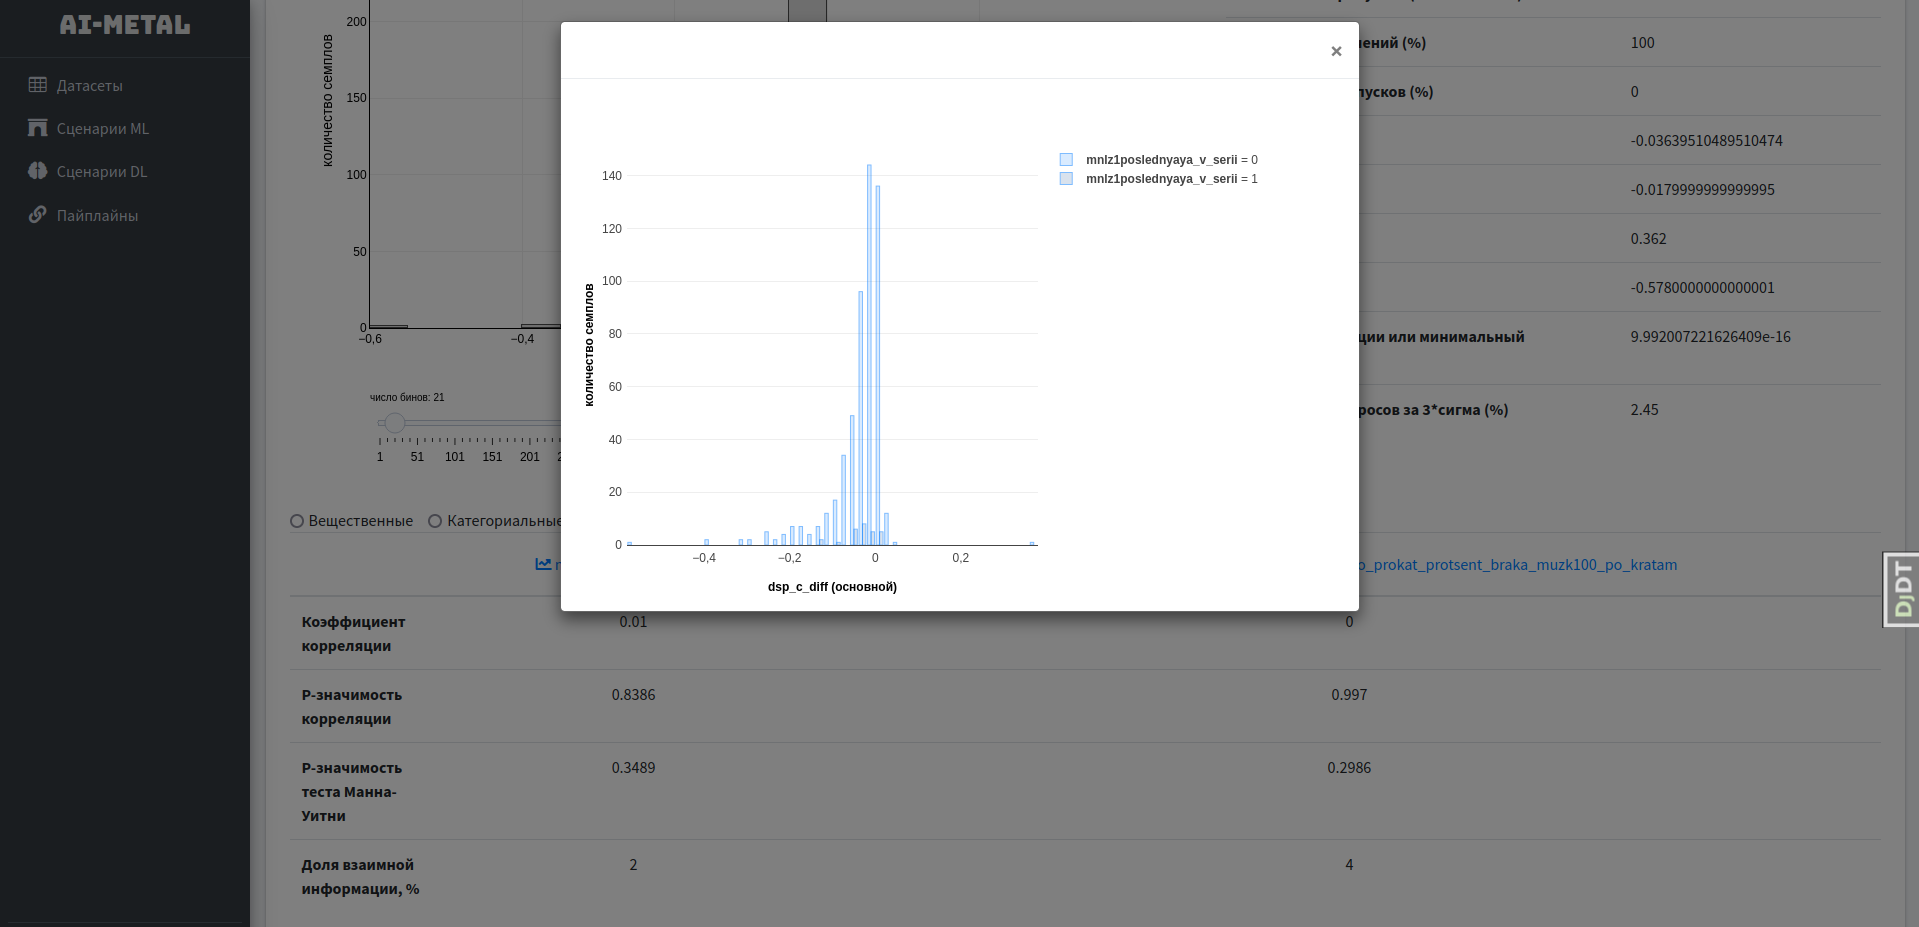
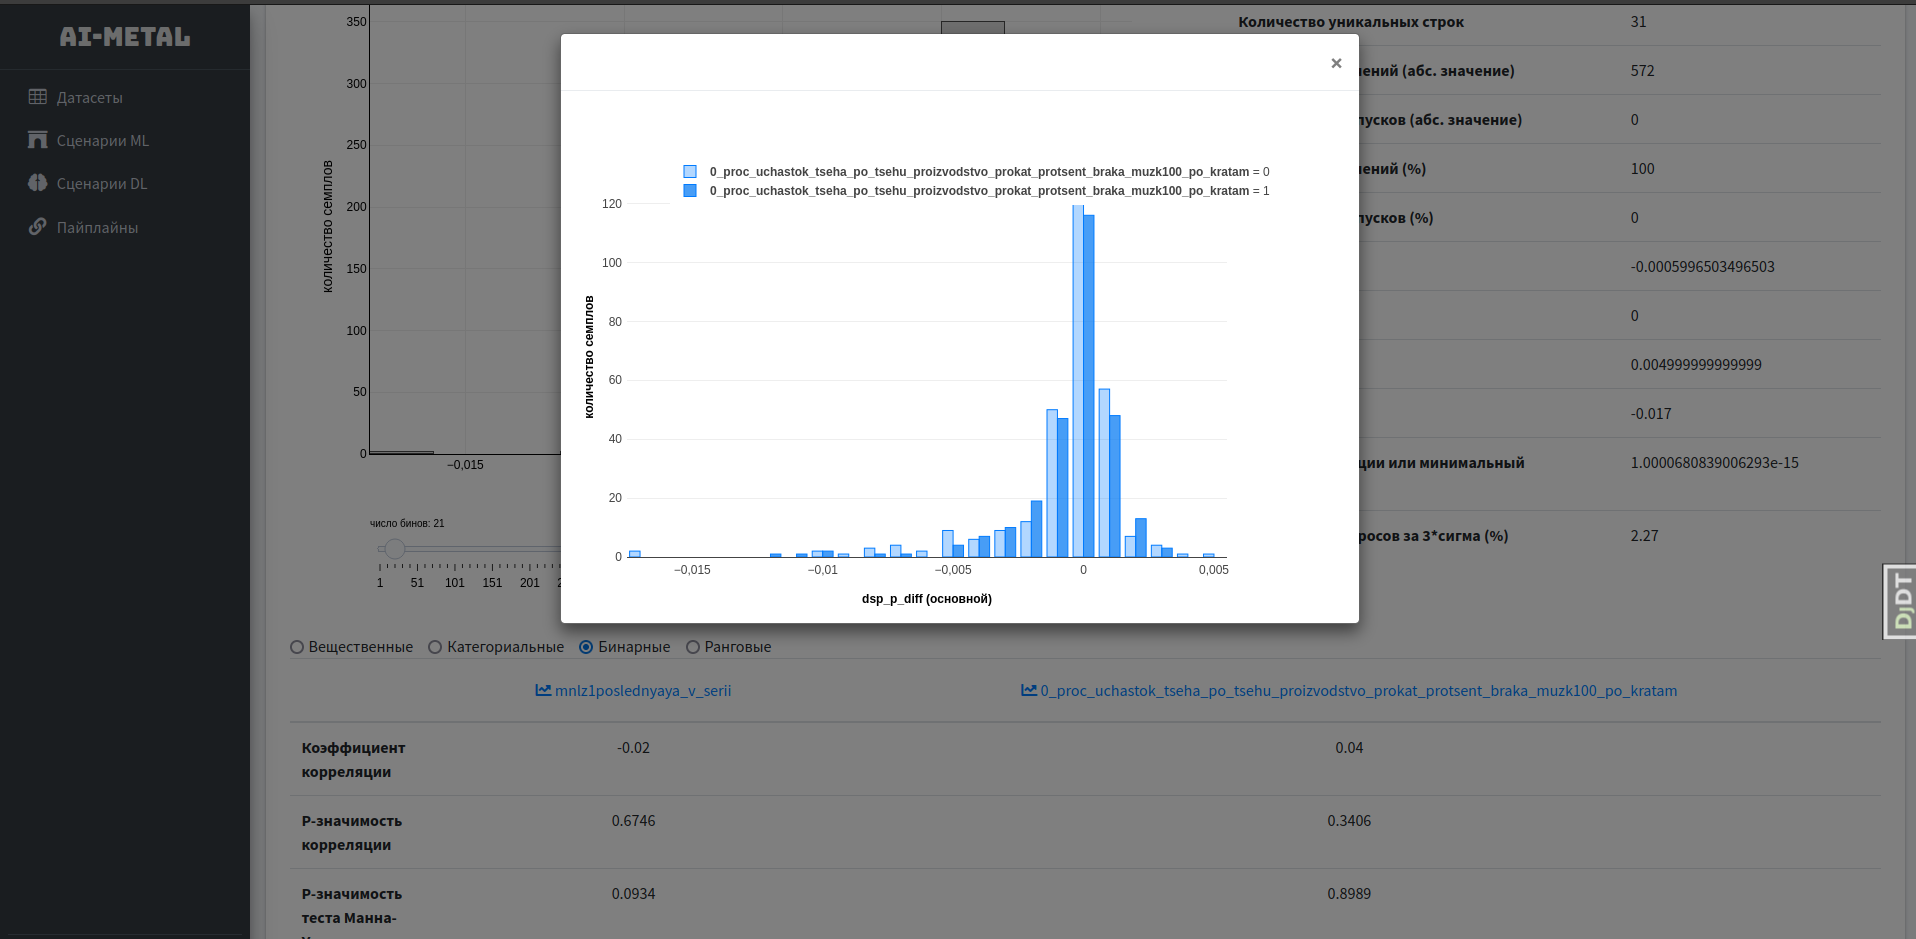
edit hists

diff --git a/blue_plots/static/common.js b/blue_plots/static/common.js
@@ -216,7 +216,7 @@ $(function () {
                 // name: col_a_type !== 'binary' ? cols.b + ' = 1' : cols.a + ' = 1',
                 name: 'second',
                 marker: {
-                    color: 'rgba(0,61,136,0.3)',
+                    color: 'rgba(10,124,243,0.75)',
                     line: {
                         color: 'rgb(0, 123, 255)',
                         width: 1
